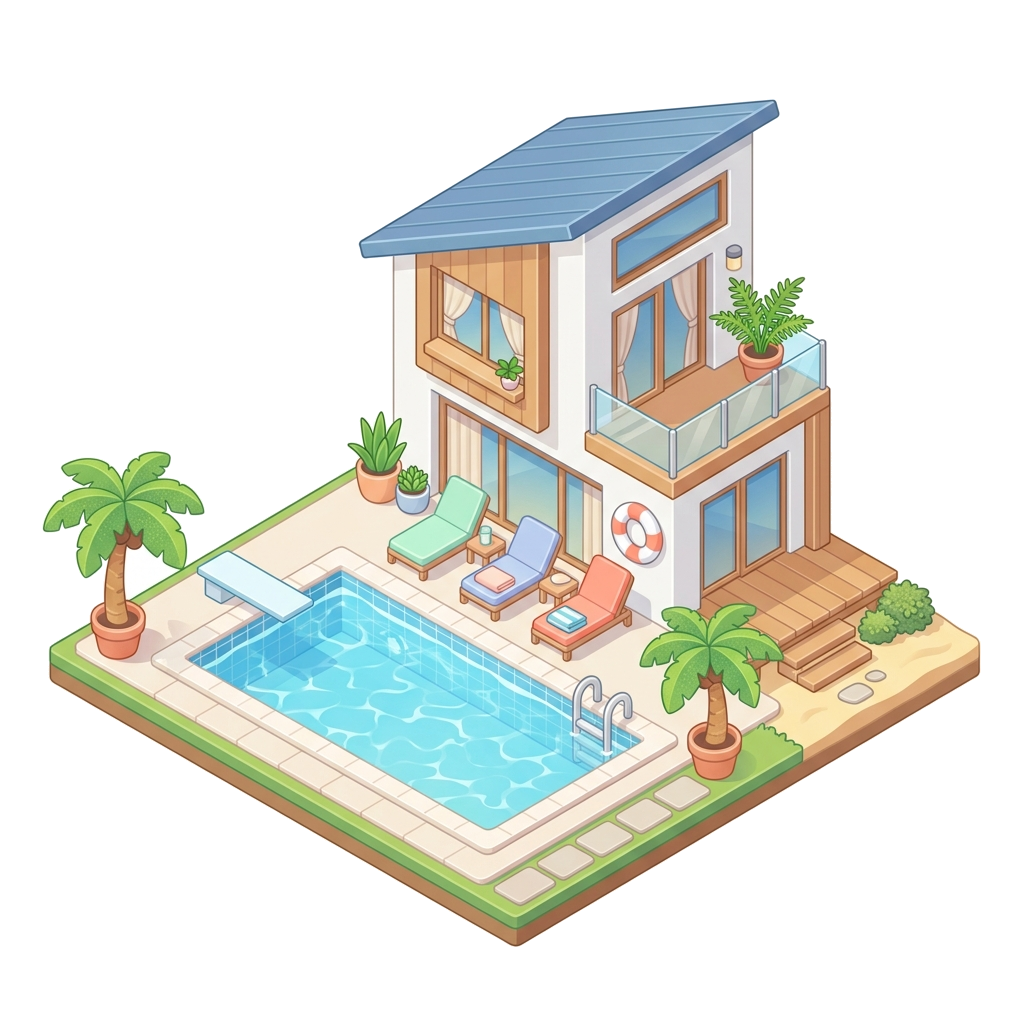
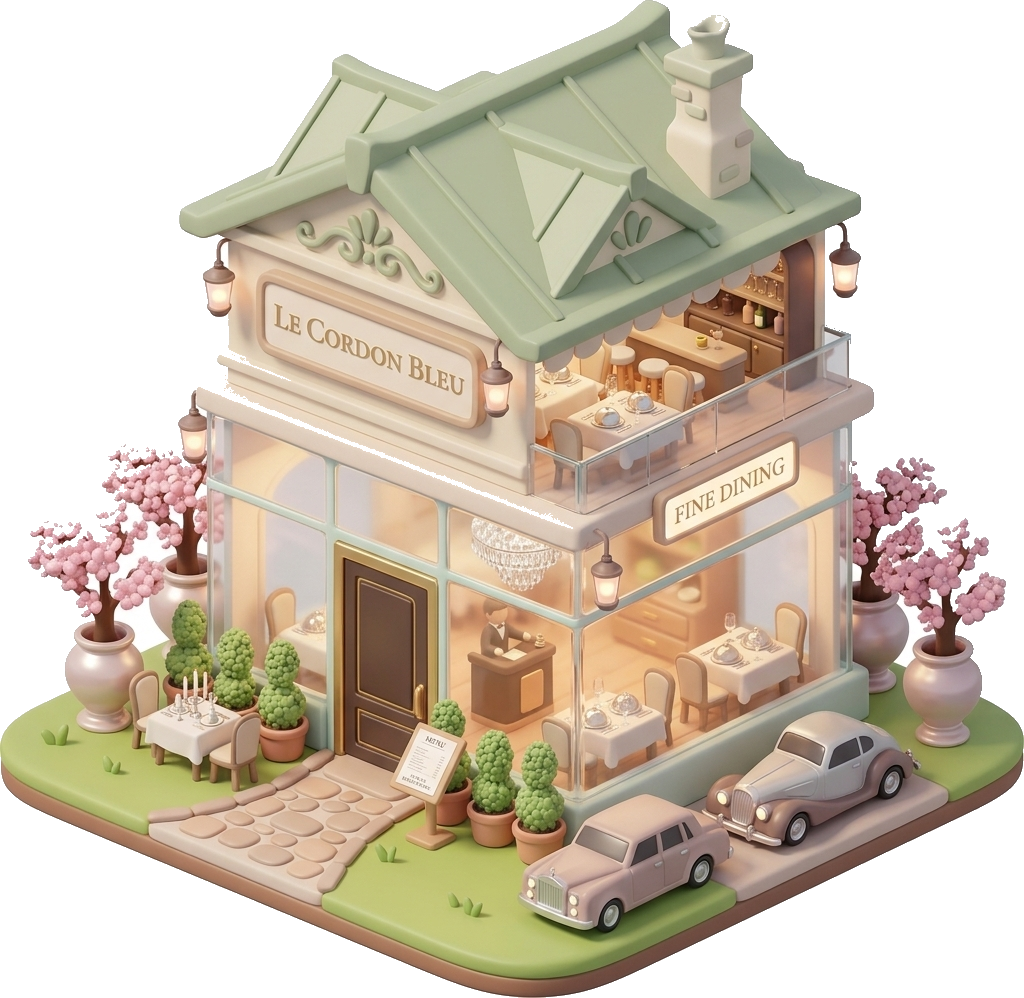
Add files via upload

diff --git a/app.js b/app.js
@@ -20,22 +20,25 @@ const hoverProgress = {
 // 立體地標圖檔載入器與去背引擎
 const ASSET_FILES = {
   island_base: 'assets/island_base.png?v=2',
-  castle: 'assets/castle.png?v=2',
-  cafe: 'assets/cafe.png?v=2',
+  campfire: 'assets/campfire.png?v=2',
+  tent: 'assets/tent.png?v=2',
+  simple_hotel: 'assets/simple_hotel.png?v=2',
+  luxury_hotel: 'assets/luxury_hotel.png?v=2',
+  cafe: 'assets/cafe.png?v=3',
   farm: 'assets/farm.png?v=2',
   resort: 'assets/resort.png?v=2',
   station: 'assets/station.png?v=2',
   apartment: 'assets/apartment.png?v=2',
   windmill: 'assets/windmill.png?v=2',
   warehouse: 'assets/warehouse.png?v=2',
-  balloon: 'assets/balloon.png?v=2',
+  balloon: 'assets/balloon.png?v=6',
   bicycle: 'assets/bicycle.png?v=2',
   car: 'assets/car.png?v=2',
   train: 'assets/train.png?v=2',
   airplane: 'assets/airplane.png?v=2',
   beverage: 'assets/beverage.png?v=2',
   bento: 'assets/bento.png?v=2',
-  restaurant: 'assets/restaurant.png?v=2'
+  restaurant: 'assets/restaurant.png?v=3'
 };
 
 const ASSETS = {};
@@ -854,6 +857,12 @@ function getCategoryExpenses() {
   
   const realRecs = records.filter(r => !isSummaryRow(r));
   realRecs.forEach(r => {
+    // 專門處理「每月的愛」（屬於收入項，故加總其 income 金額）
+    if (r.item && r.item.includes('每月的愛')) {
+      catExpenses.transfer += (r.income || 0);
+      return;
+    }
+    
     if (r.expense <= 0) return;
     const cat = categorize(r.item);
     if (cat === '餐飲' || cat === '飲料') {
@@ -870,8 +879,6 @@ function getCategoryExpenses() {
       catExpenses.utilities += r.expense;
     } else if (cat === '網購') {
       catExpenses.shopping += r.expense;
-    } else if (cat === '固定轉帳') {
-      catExpenses.transfer += r.expense;
     }
   });
   
@@ -1086,20 +1093,20 @@ function renderIsland() {
     
     const drawOrder = [
       { r: 0, c: 0, type: 'castle', val: balance },
+      { r: 0, c: 0, type: 'transfer', val: catExpenses.transfer }, // 熱氣球移至莊園上方
       { r: 0, c: 1, type: 'dining', val: catExpenses.dining },
-      { r: 1, c: 0, type: 'travel', val: catExpenses.travel },
       { r: 0, c: 2, type: 'grocery', val: catExpenses.grocery },
       { r: 1, c: 1, type: 'utilities', val: catExpenses.utilities },
       { r: 2, c: 0, type: 'transport', val: catExpenses.transport },
-      { r: 1, c: 2, type: 'rent', val: catExpenses.rent },
+      { r: 1, c: 2, type: 'travel', val: catExpenses.travel },
       { r: 2, c: 1, type: 'shopping', val: catExpenses.shopping },
-      { r: 2, c: 2, type: 'transfer', val: catExpenses.transfer }
+      { r: 2, c: 2, type: 'rent', val: catExpenses.rent }
     ];
     
     const localMouseX = (mouseX - width / 2 - islandOffsetX) / islandZoom + width / 2;
     const localMouseY = (mouseY - height / 2 - islandOffsetY) / islandZoom + height / 2;
     
-    const spacing = 90;
+    const spacing = 102;
     drawOrder.forEach(item => {
       const dx = (item.r - 1) * spacing;
       const dy = (item.c - 1) * spacing;
@@ -1107,9 +1114,18 @@ function renderIsland() {
       const cy = baseCy + (dx + dy) * 0.46;
       
       let finalCy = cy;
-      if (item.type === 'transfer') finalCy += 4; // micro-adjust front balloon
+      let finalFloatY = floatY;
       
-      drawIsoBuilding(ctx, cx, finalCy, item.type, item.val, windmillAngle, floatY, localMouseX, localMouseY);
+      if (item.type === 'transfer') {
+        // 根據帳戶餘額地標的尺寸動態調整熱氣球的高度，使其精確懸浮在屋頂上方
+        let castleSize = 140;
+        if (balance < 5000) castleSize = 75;
+        else if (balance < 20000) castleSize = 90;
+        else if (balance < 50000) castleSize = 110;
+        finalFloatY = floatY + castleSize + 25;
+      }
+      
+      drawIsoBuilding(ctx, cx, finalCy, item.type, item.val, windmillAngle, finalFloatY, localMouseX, localMouseY);
     });
     
     ctx.restore();
@@ -1424,7 +1440,6 @@ function drawIsoFlower(ctx, cx, cy, col) {
 function drawIsoBuilding(ctx, cx, cy, type, value, angle, floatY) {
   if (assetsLoaded) {
     const assetMap = {
-      castle: { img: ASSETS.castle, zeroColor: "#ef4444", th1: 5000, th2: 50000 },
       dining: { img: ASSETS.cafe, zeroColor: "#fef08a", th1: 1500, th2: 6000 },
       grocery: { img: ASSETS.farm, zeroColor: "#bbf7d0", th1: 1000, th2: 4000 },
       travel: { img: ASSETS.resort, zeroColor: "#bfdbfe", th1: 2000, th2: 8000 },
@@ -1434,7 +1449,10 @@ function drawIsoBuilding(ctx, cx, cy, type, value, angle, floatY) {
       shopping: { img: ASSETS.warehouse, zeroColor: "#e2e8f0", th1: 1500, th2: 5000 },
       transfer: { img: ASSETS.balloon, zeroColor: "#fef08a", th1: 5000, th2: 15000 }
     };
-    const info = assetMap[type];
+    let info = assetMap[type];
+    if (type === 'castle') {
+      info = { zeroColor: "#ef4444" };
+    }
     if (info) {
       try {
         if (value <= 0) {
@@ -1445,7 +1463,21 @@ function drawIsoBuilding(ctx, cx, cy, type, value, angle, floatY) {
         let img = info.img;
         let yOffset = 0;
         
-        if (type === 'transport') {
+        if (type === 'castle') {
+          if (value < 5000) {
+            img = ASSETS.campfire;
+            size = 75;
+          } else if (value < 20000) {
+            img = ASSETS.tent;
+            size = 90;
+          } else if (value < 50000) {
+            img = ASSETS.simple_hotel;
+            size = 110;
+          } else {
+            img = ASSETS.luxury_hotel;
+            size = 140;
+          }
+        } else if (type === 'transport') {
           if (value < 100) {
             img = ASSETS.bicycle;
             size = 76;
@@ -1532,8 +1564,17 @@ function drawIsoBuilding(ctx, cx, cy, type, value, angle, floatY) {
       ctx.beginPath();
       ctx.arc(cx, cy - 4 - Math.sin(Date.now() / 150) * 1.5, 4, 0, Math.PI * 2);
       ctx.fill();
+    } else if (value < 20000) {
+      // 露營帳篷 (5000-20000)
+      ctx.fillStyle = "#3b82f6";
+      ctx.beginPath();
+      ctx.moveTo(cx - 8, cy + 2);
+      ctx.lineTo(cx, cy - 8);
+      ctx.lineTo(cx + 8, cy + 2);
+      ctx.closePath();
+      ctx.fill();
     } else if (value < 50000) {
-      // 莊園別墅
+      // 簡單飯店 (20000-50000)
       drawIsoBlock(ctx, cx, cy, 22, 14, colors.castle.top, colors.castle.left, colors.castle.right);
       drawIsoPyramid(ctx, cx, cy, 22, 14, 8, "#f43f5e", "#e11d48"); // 紅頂小屋
     } else {
@@ -1895,9 +1936,10 @@ function drawIsoBuilding(ctx, cx, cy, type, value, angle, floatY) {
 function getBuildingStatusText(type, val) {
   if (type === 'castle') {
     if (val <= 0) return '🔴 赤字荒地';
-    if (val < 5000) return '🔥 營火小木屋';
-    if (val < 50000) return '🏠 舒適莊園';
-    return '🏰 繁榮城堡';
+    if (val < 5000) return '🔥 溫馨營火';
+    if (val < 20000) return '⛺ 露營帳篷';
+    if (val < 50000) return '🏢 簡單飯店';
+    return '🏨 高級泳池飯店';
   } else if (type === 'dining') {
     if (val <= 0) return '🌸 尚未消費';
     if (val < 500) return '🧋 街角飲料店';
@@ -1936,7 +1978,7 @@ function getBuildingStatusText(type, val) {
     if (val < 5000) return '🚢 貨櫃箱';
     return '🏬 物流配送中心';
   } else if (type === 'transfer') {
-    if (val <= 0) return '🌸 尚未消費';
+    if (val <= 0) return '🌸 尚未存入';
     if (val < 5000) return '🎈 飄浮氣球';
     if (val < 15000) return '🎈 夢想熱氣球';
     return '🎈 雙重夢想氣球';
@@ -1949,8 +1991,14 @@ function updateIslandLegend(cats, balance) {
   const legendEl = document.getElementById('islandLegend');
   if (!legendEl) return;
   
+  let castleIcon = '🏨';
+  if (balance <= 0) castleIcon = '🔴';
+  else if (balance < 5000) castleIcon = '🔥';
+  else if (balance < 20000) castleIcon = '⛺';
+  else if (balance < 50000) castleIcon = '🏢';
+  
   const items = [
-    { icon: '🏰', name: '帳戶餘額', type: 'castle', val: balance, prefix: '目前水位: ' },
+    { icon: castleIcon, name: '帳戶餘額', type: 'castle', val: balance, prefix: '目前水位: ' },
     { icon: '🍽️', name: '餐飲與飲料', type: 'dining', val: cats.dining, prefix: '本月支出: ' },
     { icon: '🛒', name: '超市與超商', type: 'grocery', val: cats.grocery, prefix: '本月支出: ' },
     { icon: '🏨', name: '住宿與景點', type: 'travel', val: cats.travel, prefix: '本月支出: ' },
@@ -1958,7 +2006,7 @@ function updateIslandLegend(cats, balance) {
     { icon: '🏠', name: '房租支出', type: 'rent', val: cats.rent, prefix: '本月支出: ' },
     { icon: '⚡', name: '水電瓦斯網路', type: 'utilities', val: cats.utilities, prefix: '本月支出: ' },
     { icon: '📦', name: '網購消費', type: 'shopping', val: cats.shopping, prefix: '本月支出: ' },
-    { icon: '🎈', name: '固定轉帳', type: 'transfer', val: cats.transfer, prefix: '本月支出: ' }
+    { icon: '🎈', name: '每月的愛', type: 'transfer', val: cats.transfer, prefix: '共同存入: ' }
   ];
   
   legendEl.innerHTML = items.map(item => {

diff --git a/index.html b/index.html
@@ -146,6 +146,6 @@
 <!-- Chart.js 庫 -->
 <script src="https://cdnjs.cloudflare.com/ajax/libs/Chart.js/4.4.1/chart.umd.js"></script>
 <!-- 導入外部邏輯腳本 (附帶版本號防止快取) -->
-<script src="app.js?v=20260616_v2"></script>
+<script src="app.js?v=20260617_balance_v5"></script>
 </body>
 </html>